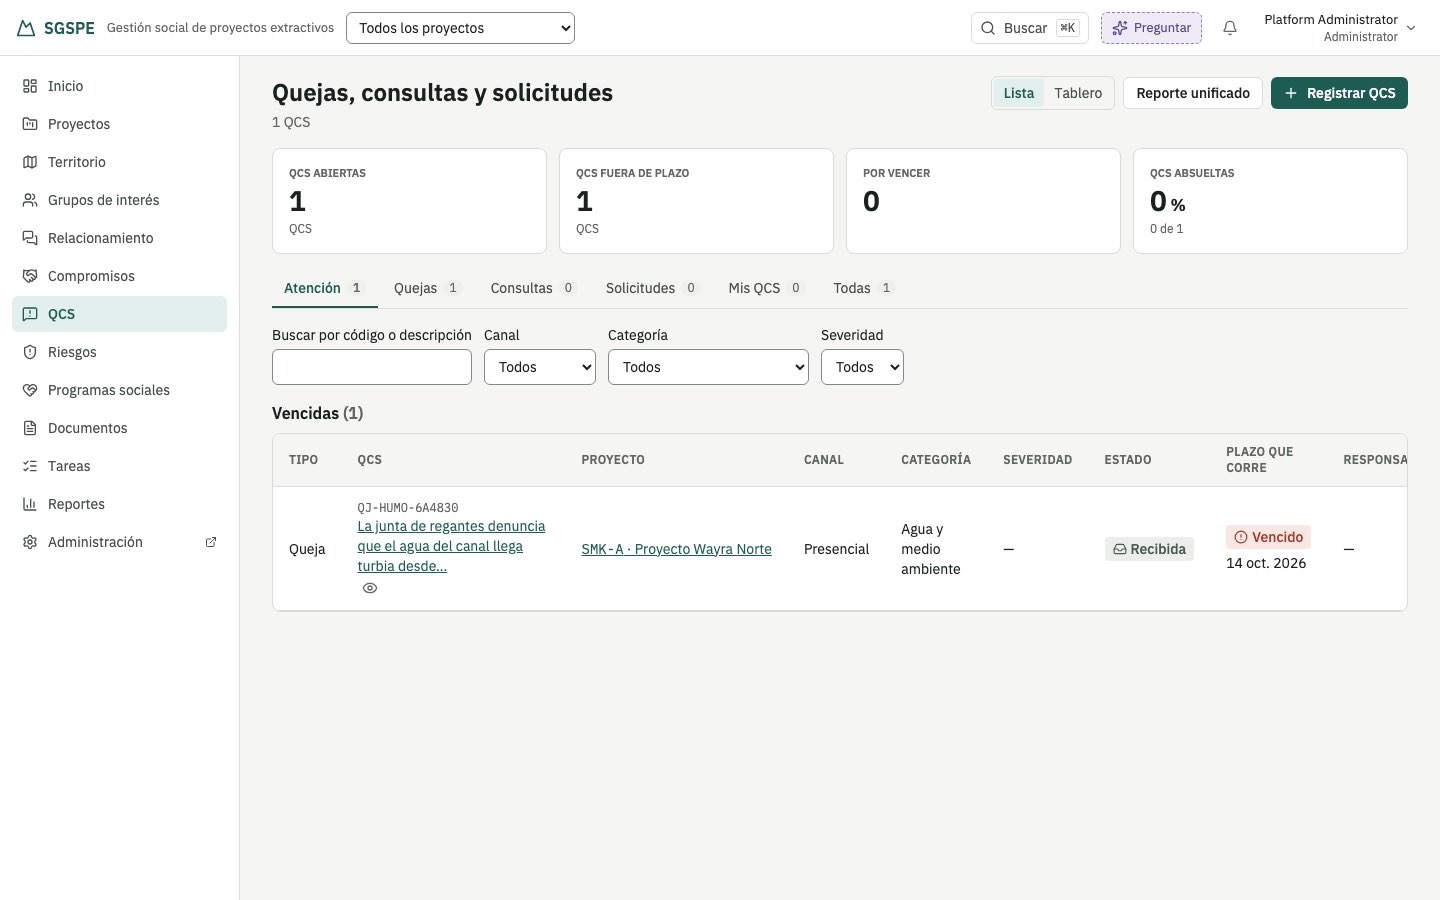
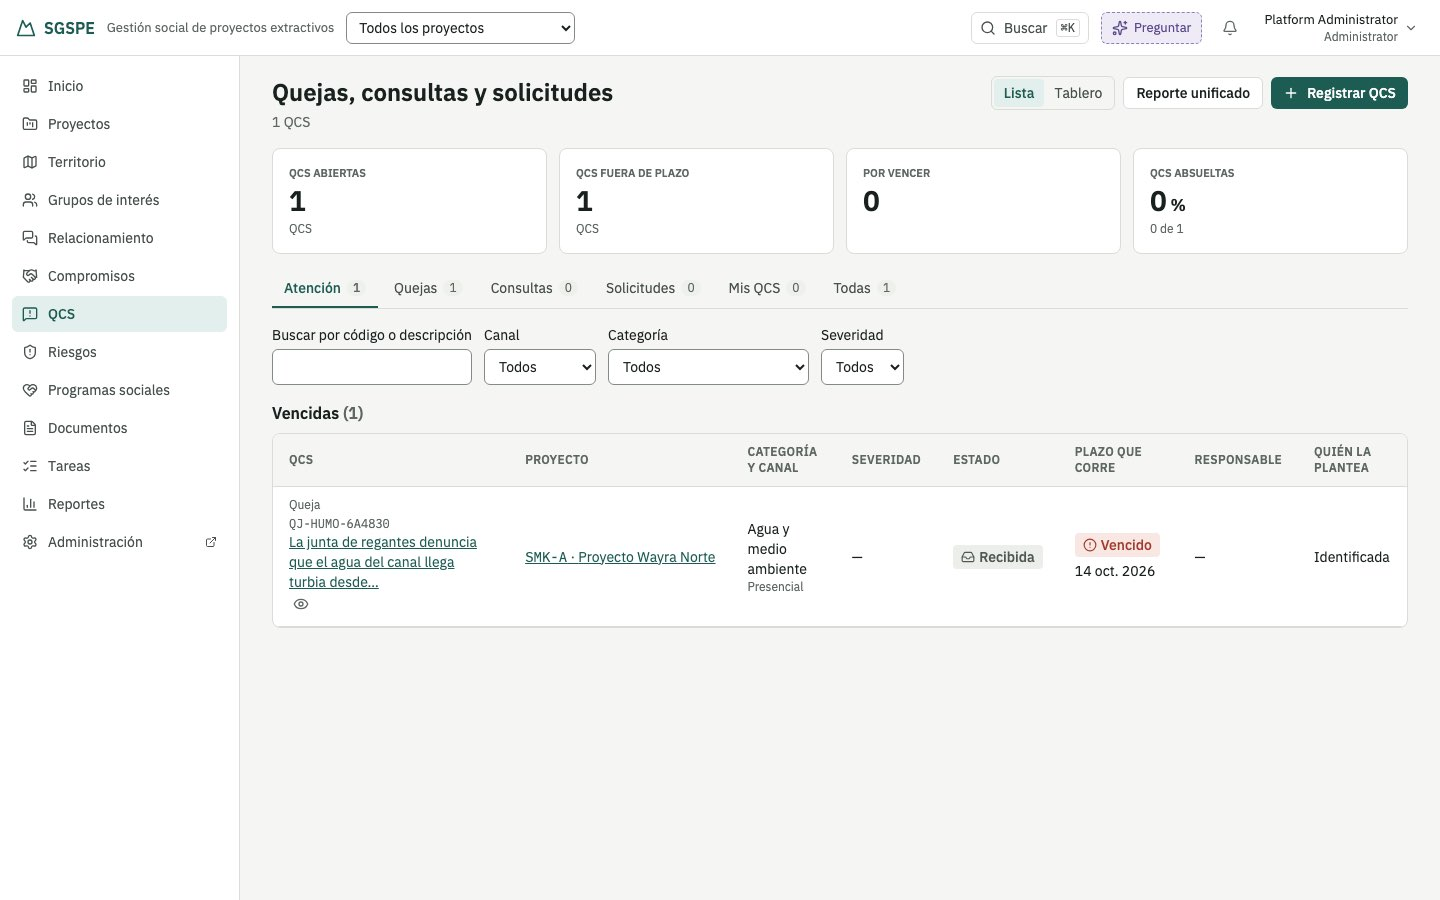
docs: el rediseño de UX suma Tareas, Riesgos y QCS

diff --git a/docs/rediseno-ux/README.md b/docs/rediseno-ux/README.md
@@ -23,7 +23,8 @@ de ese diseño queda en «Decisiones pendientes»: no se aplicó.
   - El backend local no tiene el objeto `deliverable` (los entregables responden 404) ni el WMS (503). No hubo
     pruebas con personas.
   - Las listas (QCS, tareas, interacciones, riesgos) las estaba cambiando a la vez otra sesión (rama
-    `ux/listas-por-rango-y-atencion`): esta pasada no tocó esos archivos (§7).
+    `ux/listas-por-rango-y-atencion`, #74). Esta pasada esperó a que se integrara y se rebasó sobre ella antes de tocar
+    Tareas, Riesgos y QCS (A18 a A20).
 
 Las capturas están en [`capturas/`](capturas) (JPEG, calidad 60): `antes/` y `despues/`; las que empiezan por `simulada-`
 son de la API simulada. Las métricas crudas están en [`metricas.json`](metricas.json).
@@ -63,16 +64,16 @@ personas.
 | A15 | Panel de decisión | «Desde —» cuando el registro no trae `state_changed_at` | Fichas de humo | Ruido sin información | Baja | La línea no se dibuja | Ninguno | `PanelDeDecision.test.tsx` |
 | A16 | Ficha de compromiso | Un «—» suelto entre los chips cuando no hay monto | `simulada-compromiso-ficha-telefono.jpg` | Ruido | Baja | Sin monto, sin chip | Ninguno | `FichaCompromisoPage.test.tsx` |
 | A17 | Página no encontrada | Sin `<h1>` ni título de documento | — | El historial y los lectores no la nombran | Baja | `h1` y «Esta página no existe · SGSPE» | Ninguno | `NoEncontrada.test.tsx` |
+| A18 | Mis tareas (global) | «Las tareas para tomar se ven dentro de cada proyecto: elija uno en el selector» | `antes/tareas-escritorio.jpg` | Tomar una tarea exige saber de qué proyecto es | Media | «Para tomar» también en lo global, con la columna Proyecto: el servidor ya acota la lectura a los proyectos de la cuenta (ADR-0029) | Ninguno: la lectura y «Tomar» siguen con sus guardas | `MisTareasPage.test.tsx` |
+| A19 | Riesgos sin ningún riesgo | Matriz 5×5 llena de ceros sobre «No hay riesgos en esta vista», sin siguiente paso | `antes/riesgos-escritorio.jpg` | Ruido y ninguna orientación | Media | Sin riesgos en el alcance: «Aún no hay riesgos registrados» y, a quien crea, cómo identificar el primero | Ninguno | `RiesgosPage.test.tsx` |
+| A20 | Lista de QCS a 1440 px | Diez columnas en lo global: «Responsable» queda cortada y la tabla se desplaza | `antes/qcs-escritorio.jpg` | Lo que importa al final de la fila no se ve sin desplazar | Media | Ocho columnas: el tipo como línea gris sobre el código y el canal bajo la categoría | Ninguno: los mismos datos | `AtencionPage.test.tsx` |
 
 ### 3.2 Observados y no resueltos
 
 | # | Pantalla o flujo | Problema | Evidencia | Gravedad | Por qué no se hizo | Propuesta |
 |---|---|---|---|---|---|---|
-| P1 | Mis tareas (global) | «Las tareas para tomar se ven dentro de cada proyecto: elija uno en el selector» | `antes/tareas-escritorio.jpg` | Media | `MisTareasPage` lo cambia la otra sesión (D10) | La vista «Para tomar» global con el proyecto como columna (plan anterior, etapa 3) |
-| P2 | Listas | El vacío no dice el siguiente paso («No hay riesgos en esta vista.») | Riesgos, Tareas | Media | Listas en D10 | `Vacio` con la acción de crear (`BotonCrear`) y, si hay filtros, «Quitar filtros» |
-| P3 | Lista de QCS a 1440 px | Nueve columnas: «Responsable» queda cortada y la tabla se desplaza | `antes/qcs-escritorio.jpg` | Media | `AtencionPage` en D10 | Bajar Canal y Categoría a una segunda línea de la fila, o mostrarlas solo desde 1600 px |
+| P2 | Listas con filtros | El vacío de una vista filtrada no ofrece quitar el filtro | Riesgos («No hay riesgos en esta vista»), Tareas | Baja | Cada lista arma su vacío; conviene una pieza común | `Vacio` con «Quitar filtros» cuando hay filtros puestos |
 | P4 | Territorio | Su propio «Proyecto del mapa» además del selector de la barra | `despues/territorio-escritorio.jpg` | Media | El mapa necesita «Todo el territorio», que no es «Todos los proyectos»: es una decisión de diseño | Decidir en `docs/ux` si el mapa sigue a la barra y suma «Todo el territorio» |
-| P5 | Riesgos sin riesgos | Matriz 5×5 llena de ceros sobre «No hay riesgos en esta vista» | `antes/riesgos-escritorio.jpg` | Baja | `RiesgosPage` en D10 | Sin riesgos, solo el vacío con «Identificar riesgo» |
 | P6 | Camino del flujo | Sin etiqueta en el workflow, muestra el nombre técnico (`pending_approval`) | `simulada-compromiso-ficha-escritorio.jpg` | Baja | Con el backend real las etiquetas existen | Mientras no llega la etiqueta, no dibujar el paso |
 
 ### 3.3 Hipótesis que necesitan personas
@@ -183,6 +184,8 @@ Rama `ux/rediseno-orientacion`, un commit por cambio (Conventional Commits), con
 - `fix`: la página que no existe tiene su título y el panel de decisión no dice «Desde —» (A15, A17).
 - `fix`: un error de carga no dice que conserva filtros donde no los hay (A14).
 - `fix`: sin monto, el encabezado del compromiso no dibuja un «—» suelto (A16).
+- `feat`: «Para tomar» fuera de un proyecto y el registro de riesgos vacío dice cómo empezar (A18, A19).
+- `feat`: la lista de QCS cabe a 1440 px con ocho columnas (A20).
 
 Archivos principales:
 
@@ -219,15 +222,17 @@ Contratos que no cambiaron:
    barra actual (y la búsqueda ahora más útil)?
 2. **El mapa y la barra (P4).** Decidir si Territorio sigue al selector de la barra.
 3. **Lo que vuelve de «Más acciones» (H3).** Medir el uso de reclasificar y de crear un compromiso desde la queja.
-4. **Listas (P1, P2, P3, P5).** Retomarlas cuando la rama de listas por rango y atención se integre, con el mismo criterio:
-   una primaria, el vacío con su siguiente paso y la tabla sin desplazarse a 1440 px.
+4. **Listas (P2).** La rama de listas por rango y atención (#74) se integró durante esta pasada; A18, A19 y A20 ya se
+   hicieron sobre ella. Falta el vacío con «Quitar filtros», mejor como una pieza común.
 5. **Riesgo.** El documento `docs/ux/design-system.md` §6.1 describe la barra de la ficha: hay que sumarle la regla de
    «una primaria + Más acciones» para que el diseño y el portal no diverjan.
 
 ## 9. Pruebas ejecutadas
 
 - `yarn format`, `yarn lint` y `yarn typecheck`: sin cambios ni errores.
-- `yarn test`: 2166 pruebas en 188 archivos, todas en verde (antes de esta pasada: 2143 en 186).
+- `yarn test`: 2169 pruebas en 188 archivos (antes de esta pasada: 2143 en 186). Con la máquina muy cargada (carga
+  promedio 37), dos corridas completas tuvieron cada una un tiempo agotado distinto, en pruebas pesadas que esta pasada no
+  cambió: `RiesgosPage` «sin tope» (más de 1000 registros) y `FichaAportePage` «tope de lectura». Aisladas pasan siempre.
 - `yarn build` y las e2e de Playwright contra la build en otro puerto: 62 recorridos en verde, incluidos los 2 nuevos de
   `orientacion.spec.ts`.
 - Recorrido manual con Playwright contra el backend real a 1440 y 390 px: sin errores de página, salvo las respuestas
